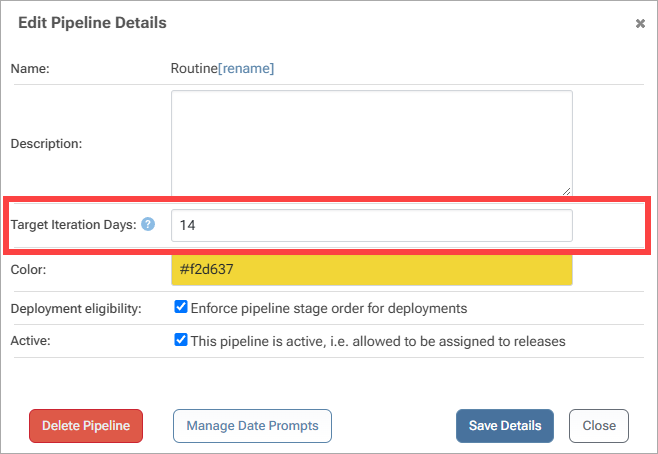
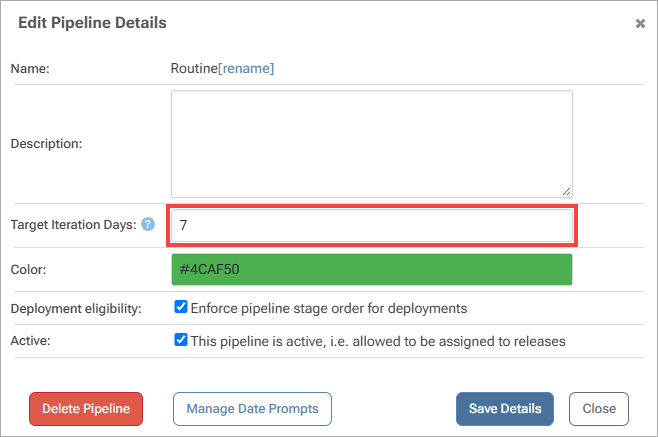
HOWTO "multicadence" added (#626)
* further tweaks
* progress on HOWTO
* added step 4/5
* finalized first draft
* added images
* image fixes
* font size tweaks
* added images and fixed links
* spelling tweak
* initial revision edits
* work in progress
* work in progress
* edits to steps 1 and 2
* edits to steps 3, 4, and 5
* edits to gating steps
* made edits to steps
* made further edits
* gating steps added
* edits made to steps
* created latest steps
* final draft changes

diff --git a/Content/BuildMaster/modeling-your-applications/buildmaster-releases/howto-multi-cadence.md b/Content/BuildMaster/modeling-your-applications/buildmaster-releases/howto-multi-cadence.md
@@ -1,0 +1,240 @@
+---
+title: "HOWTO: Set Up Multi-Cadence Releases in BuildMaster"
+order: 3
+---
+
+A Lean Platforms multi-release cadence splits your releases into two parallel tracks so that routine, low-risk changes can ship on a predictable schedule, independent of larger, riskier work:
+
+* **<span style="color: #FF5733;">Major Release Track</span>**: Major releases cover high-risk changes such as large features or significant updates, and ship on a flexible schedule driven by readiness rather than the calendar.
+
+* **<span style="color: #4CAF50;">Routine Release Track</span>**: Routine releases cover low-risk changes such as bug fixes and minor updates, and ship on a predictable, fixed cadence (e.g. every two weeks).
+
+Once you have adopted a multi-released cadence, delayed major releases no longer hold up the small changes stakeholders are waiting on, allowing you to ship regular updates more predictably. For a more detailed look at the concept of multi-cadence releases you can read our article [Eliminate Delays and Disruptions in Software Releases](https://blog.inedo.com/lean-platforms/releases).
+
+This page will walk you through setting up a multi-cadence release in BuildMaster. It will cover how to connect your toolchain, create Routine and Major pipelines, automate routine release dates and track everything through BuildMaster's calendar.
+
+## Prerequisites
+
+This guide assumes that you have already:
+* [Created your application](/docs/buildmaster/modeling-your-applications/buildmaster-applications-concepts/buildmaster-howto-build-and-deploy-an-aspnet-mvc-application) in BuildMaster and connected it to source control (e.g., GitHub), so that branches and commits are visible on each build.
+* Connected the rest of your toolchain to the application, so BuildMaster can show what’s inside each build. For example, [connecting an issue tracker](/docs/buildmaster/modeling-your-applications/buildmaster-applications-issue-tracking) (e.g., Jira) lets issues be associated with builds and releases.
+
+## Step 1: Create a Major Release Pipeline
+In this first step we will create a **<span style="color: #FF5733;">Major Release</span>** Pipeline. As major releases carry high risk, their pipelines typically include more stages, multiple manual approvals, and several date windows that map out the run-up to release. Builds are typically promoted manually once the required sign-offs are done.
+
+### Creating The Pipeline
+For our Major release pipeline we recommend including Build, Integration, Testing, Staging, and Production stages. Integration confirms the build works with everything else, Testing covers QA, and Staging mirrors production before the final deployment. 
+
+To [create a pipeline](/docs/buildmaster/deployment-continuous-delivery/buildmaster-pipelines#creating-pipelines) for your major releases, navigate to "Settings" > "Pipelines" then select "Create Pipeline". Then select "Show all" and choose "Main/Release Branch".
+
+![](/resources/docs/buildmaster-pipeline-create-main.png){height="" width="50%"}
+
+BuildMaster's default Main Pipeline already includes Build, Integration, Testing and Production. To add Staging, scroll down to Testing and then select "add stage".
+
+![](/resources/docs/buildmaster-pipelines-select-addstage.png){height="" width="50%"}
+
+Next, name the stage "Staging", and select "3. Production" for the "Pipeline Position". Then select "Save Stage".
+
+![](/resources/docs/buildmaster-pipelines-createstage.png){height="" width="50%"}
+
+Finally, select "Create Pipeline".
+
+![](/resources/docs/buildmaster-pipeline-fivestages.png){height="" width="50%"}
+
+### Creating Date prompts
+Beyond the release target date, you can add extra dates to a pipeline, set relative to that target. These are useful for milestones that happen on the way to a release. For your **<span style="color: #FF5733;">Major Release</span>** pipeline, a realistic set might include a code freeze (14 days before), a regression testing window (10 days before, lasting 7 days), and a go/no-go review (2 days before). These give everyone a shared view of what happens when. 
+
+To set these up, navigate to your **<span style="color: #FF5733;">Major Release</span>** pipeline, select "Edit Details" under "Pipeline Details", and then selecting "Manage Date Prompts".
+
+![](/resources/docs/buildmaster-calendar-manage-date-prompts-major.png){height="" width="50%"}
+
+Then select "Add Date Prompt". 
+
+![](/resources/docs/buildmaster-pipeline-dateprompt-add.png){height="" width="50%"}
+
+From here you will be able to name the date, how many days after the release target date it will be scheduled, (or before, by entering a negative number, e.g. `-3`) and the duration that this prompt will last.
+
+![](/resources/docs/buildmaster-pipeline-dateprompt-create.png){height="" width="50%"}
+
+Repeat these steps to create:
+* Code Freeze (-14 days)
+* Regression Testing (-10 days, 7 day duration)
+* Go/No-go Review (-2 days)
+
+These will then be pre-populated when creating a new release.
+
+![](/resources/docs/buildmaster-calendar-dateprompts-populated.png){height="" width="50%"}
+
+## Step 2: Configure the Major Release Pipeline Stage Requirements
+Pipeline stage requirements are gates that control what must be true before a build can move to the next stage of a pipeline. Because **<span style="color: #FF5733;">Major Releases</span>** carry high risk, we recommend combining automated requirements with those that require manual sign-off.
+
+### Setting Up Automated Stage Requirements
+Automated requirements stop a build from moving forward until it meets certain criteria, without anyone having to remember to check. For **<span style="color: #FF5733;">Major Releases</span>** we recommend blocking builds that contain noncompliant packages or prerelease dependencies at the build stage, and requiring that all issues in the release are resolved in your issue tracker at the Production stage.
+
+To configure these, navigate to your **<span style="color: #FF5733;">Major Release</span>** pipeline, scroll down to the Build stage and select "add stage requirement". 
+
+![](/resources/docs/buildmaster-pipelines-build-req-add.png){height="" width="50%"}
+
+From here, select "Edit Packages/Dependencies", check both checkboxes and select "Save". This will prevent builds containing packages that break compliance rules or unstable (prerelease) dependencies from moving forward. 
+
+![](/resources/docs/buildmaster-pipelines-build-req-added.png){height="" width="50%"}
+
+Next, at the Production stage, we'll add a requirement that all issues must be resolved before the release can be deployed to this stage, and another to ensure that the build deployed to this stage was built from the master branch. 
+
+Scroll down to Production, select "add stage requirement" and select "Edit Issues/Status Requirements". From here select "All issues must be closed to enter this stage" and select "Save".
+
+![](/resources/docs/buildmaster-pipeline-set-issues-closed.png){height="" width="50%"}
+
+Now select add, select "Add "Git Branch" requirement, enter "master" and select "Save". 
+
+![](/resources/docs/buildmaster-pipeline-set-master-branch.png){height="" width="50%"}
+
+Finally, make sure you scroll up to the top of the pipeline page and select "Commit Changes". 
+
+### Setting Up Manual Gating
+Some checks need human judgment, so we also recommend manual requirements for **<span style="color: #FF5733;">Major Releases</span>**. We recommend adding two manual approvals at the Testing stage and one at the Production stage.
+
+The two Testing stage approvals confirm that the release notes and test coverage are ready and that the testing environment is correctly configured, so testers don't spend a cycle on a build that isn't ready to be tested. The Production stage approval makes sure a release manager, or another accountable person, has signed off on the deployment before it reaches Production.
+
+To configure these, navigate to your **<span style="color: #FF5733;">Major Release</span>** pipeline, scroll down to the Testing stage and select "add stage requirement". Then select "Add Manual Approval". From here select the user or group responsible for signing off on the approval, and add the description "Release notes accurate and build has test coverage prepared". Then select "Save".
+
+![](/resources/docs/buildmaster-pipeline-testing-manual-approval-add.png){height="" width="50%"}
+
+Repeat these steps to add the second approval, with the description "Testing environment configuration and dependencies are ready for build".
+
+![](/resources/docs/buildmaster-pipeline-testing-manual-requirements-added.png){height="" width="50%"}
+
+Next, scroll down and repeat this at Production stage, selecting the user responsible for signing off on the deployment, and add a short description. Then select "Save".
+
+![](/resources/docs/buildmaster-pipeline-manual-approval.png){height="" width="50%"}
+
+Finally, make sure you scroll up to the top of the pipeline page and select "Commit Changes".
+
+## Step 3: Create a Routine Release Pipeline
+In this next step we will create a pipeline that will be used for your **<span style="color: #4CAF50;">Routine Releases</span>**. As routine releases carry low risk and ship on a fixed cadence, their pipelines typically include fewer stages, fewer checks, and a handful of date prompts. Because the cadence is fixed, builds can also have their promotions scheduled to land on the release date.
+
+### Creating The Pipeline
+We recommend keeping **<span style="color: #4CAF50;">Routine Releases</span>** pipelines short: Build, Integration, Testing, and Production. Fewer stages means small changes reach production quickly without waiting on unnecessary checks.
+
+As with creating a Major release pipeline, start by navigating to "Settings" > "Pipelines" then select "Create Pipeline". Then select "Show all" and choose "Main/Release Branch". By default this will already include all stages recommended for routine releases. Select "Create Pipeline".
+
+![](/resources/docs/buildmaster-pipeline-fourstages.png){height="" width="50%"}
+
+### Setting Target Iteration Dates
+To keep routine releases predictable, you can set Target Iteration Dates on a pipeline to define when its releases are meant to go out, setting a fixed cadence for your routine releases (e.g., every two weeks on a Friday). BuildMaster then projects upcoming release dates for you.
+
+To set these up, navigate to your Routine pipeline and then select "edit details" under "Pipeline Details". From here set the target iteration dates (e.g., "7" would set a one week cadence for routine releases):
+
+![](/resources/docs/buildmaster-release-edit-iteration.png){height="" width="50%"}
+
+Once set, BuildMaster automatically projects the upcoming target dates for that pipeline and shows them on the calendar as dotted outlines.
+
+![](/resources/docs/buildmaster-calendar-auto-dates.png){height="" width="50%"}
+
+### Setting Date Prompts
+Routine releases need only a light touch here. We recommend a couple of short prompts, such as a code cutoff 4 days before the target date and a short QA window 3 days before.
+
+To set these up, navigate to your Routine release pipeline, select "Edit Details" under "Pipeline Details", and then select "Manage Date Prompts".
+
+![](/resources/docs/buildmaster-pipeline-manageprompts-2.png){height="" width="50%"}
+
+Then select "Add Date Prompt". Name the date (e.g., "Code Cutoff"), enter how many days before the release target date it will be scheduled as a negative number (e.g., `-3`), and select "Save". Repeat for the QA window, setting it 3 days before with a duration of 2 days.
+
+![](/resources/docs/buildmaster-pipeline-routine-prompts.png){height="" width="50%"}
+
+These will then be pre-populated each time you create a new Routine release.
+
+## Step 4: Configure the Routine Release Pipeline Gating
+Because **<span style="color: #4CAF50;">Routine Releases</span>** ship frequently and carry low risk, their gating should enforce quality without slowing anyone down. We recommend relying on automated gates rather than manual approvals, and adding variable prompts to make quick, repeatable testing easier. This step will cover both.
+
+### Setting Up Automated Gating
+Because routine releases ship frequently, we recommend relying on automated gates rather than manual approvals. Use the same compliance and prerelease dependency checks as the Major pipeline.
+
+To configure these, navigate to your **<span style="color: #4CAF50;">Routine Release</span>** pipeline, scroll down to the Build stage and select "add stage requirement".
+
+![](/resources/docs/buildmaster-pipelines-build-req-add.png){height="" width="50%"}
+
+From here, select "Edit Packages/Dependencies", check both checkboxes and select "Save". This will prevent builds containing packages that break compliance rules or unstable (prerelease) dependencies from moving forward.
+
+![](/resources/docs/buildmaster-pipelines-build-req-added.png){height="" width="50%"}
+
+As with the Major Release pipeline, we'll add a requirements at the Production stage that all issues must be resolved before the release can be deployed to this stage, and another to ensure that the build deployed to this stage was built from the master branch. 
+
+Scroll down to Production, select "add stage requirement" and select "Edit Issues/Status Requirements". From here select "All issues must be closed to enter this stage" and select "Save".
+
+![](/resources/docs/buildmaster-pipeline-set-issues-closed.png){height="" width="50%"}
+
+Now select add, select "Add "Git Branch" requirement, enter "master" and select "Save". 
+
+![](/resources/docs/buildmaster-pipeline-set-master-branch.png){height="" width="50%"}
+
+Finally, make sure you scroll up to the top of the pipeline page and select "Commit Changes".
+
+Unlike the Major pipeline, we haven't added any manual approvals here. Builds that meet these requirements are free to move forward, which keeps your fixed-cadence releases on schedule.
+
+### Creating Variable Prompts
+[Variables](/docs/buildmaster/otterscript-execution-engine/buildmaster-variables) let you write a single deployment script that works across multiple environments, and have BuildMaster ask users for parameter values before a build is created or deployed using Variable Prompts. For example, a prompt at the Testing stage can let the tester choose whether to enable new features after deployment, so the same build can be checked with a feature off and then on without needing a separate build. In addition we'll add a prompt to define whether or not to restart services after deployment.
+
+Navigate to your **<span style="color: #4CAF50;">Routine Release</span>** pipeline, scroll down to the Testing stage and select "Add an input prompt or constant".
+
+![](/resources/docs/buildmaster-pipelines-prompt-add.png){height="" width="50%"}
+
+Then select "Prompt for Input" and name it "Enable New Features After Deployment". This prompt will be set up as a list to create "true" or "false" choices, so select the "Input Options" tab, select the "List" option, as well as selecting "Value is Required" and "Restrict value to items in list". Then enter "true" and "false" as list options.
+
+![](/resources/docs/buildmaster-pipeline-prompt-edit-input.png){height="" width="50%"}
+
+We also recommend adding a short description by selecting the "Display Options" tab and typing a short description in the "Help text" field. Then select "Save Variable".
+
+![](/resources/docs/buildmaster-pipeline-prompt-edit-display.png){height="" width="50%"}
+
+Repeat this to create a prompt to define whether or not to restart services after deployment. 
+
+![](/resources/docs/buildmaster-pipeline-prompts-added.png){height="" width="50%"}
+
+Then, scroll to the top of the pipeline page and select "Commit Changes".
+
+Now testers can deploy the same build with new features switched off and then on, and choose whether services restart after deployment, all without needing a separate build or a change to the deployment script.
+
+## Step 5: Create a release in each pipeline
+With both pipelines in place, we will now create a release in each one to see how the two tracks differ in practice. First we will create a Major release and set its target date. The date prompts you defined will pre-populate automatically, giving the release a long run-up with several milestones.
+
+Then we will create a Routine release, which will pre-populate with just a code cutoff and a short QA window. Putting the two side by side shows how much more planning a Major release involves compared with a Routine one. It also gives us something to look at in the next step, where we will view both tracks on the calendar.
+
+### Creating a Major Release
+To create a Major release, navigate to your Major release pipeline and [create a new release](/docs/buildmaster/modeling-your-applications/buildmaster-releases). When prompted, set the [release target date](/docs/buildmaster/modeling-your-applications/buildmaster-releases#target-dates) for the scheduled deployment.
+
+![](/resources/docs/buildmaster-release-major-create.png){height="" width="50%"}
+
+Once the date is set, the date prompts you [defined in Step 1](#creating-date-prompts) are scheduled relative to it.
+
+![](/resources/docs/buildmaster-calendar-dateprompts-populated.png){height="" width="50%"}
+
+### Creating a Routine Release
+To create a Routine release, navigate to your Routine release pipeline and create a new release. 
+
+![](/resources/docs/buildmaster-release-routine-create.png){height="" width="50%"}
+
+Unlike a Major release, this date should hold: Routine releases ship on a fixed cadence, so changes that aren't ready simply move to the next one. Once the date is set, the code cutoff and QA window you defined in Step 3 will pre-populate relative to it.
+
+#### Scheduling Build Promotion
+Because Routine releases follow a fixed cadence, you can schedule builds to be promoted automatically so they land on the release date. To schedule the promotion of individual pipeline stages, navigate to a build in your release and select the current stage under "Pipeline Progress".
+
+![](/resources/docs/buildmaster-pipeline-stage-select.png){height="" width="50%"}
+
+From here select "Schedule" and enter the date and time to promote the build.
+
+![](/resources/docs/buildmaster-promotion-schedule.png){height="" width="50%"}
+
+## Step 6: View Target Release Dates on the Calendar
+Once you have created releases and builds in your Major and Routine release pipelines, you can view them on the Calendar by selecting "Calendar" on the header. The default calendar will display all target dates for all applications in BuildMaster:
+
+![](/resources/docs/buildmaster-default-calendar.png){height="" width="50%"}
+
+#### Creating Custom Calendars (Optional)
+Viewing all of your applications at once through the default calendar can be overwhelming, so Buildmaster lets you create custom Calendars to view only specified applications. 
+
+To create a custom calendar, navigate to "Administration" > "Manage Calendars" (Global Components). Then select "Create Calendar". 
+
+![](/resources/docs/buildmaster-calendar-create.png){height="" width="50%"}
+
+For more details on the options available when creating a customized calendar, read [Creating Custom Calendars](/docs/buildmaster/modeling-your-applications/buildmaster-releases/buildmaster-applications-releases-calendars)
